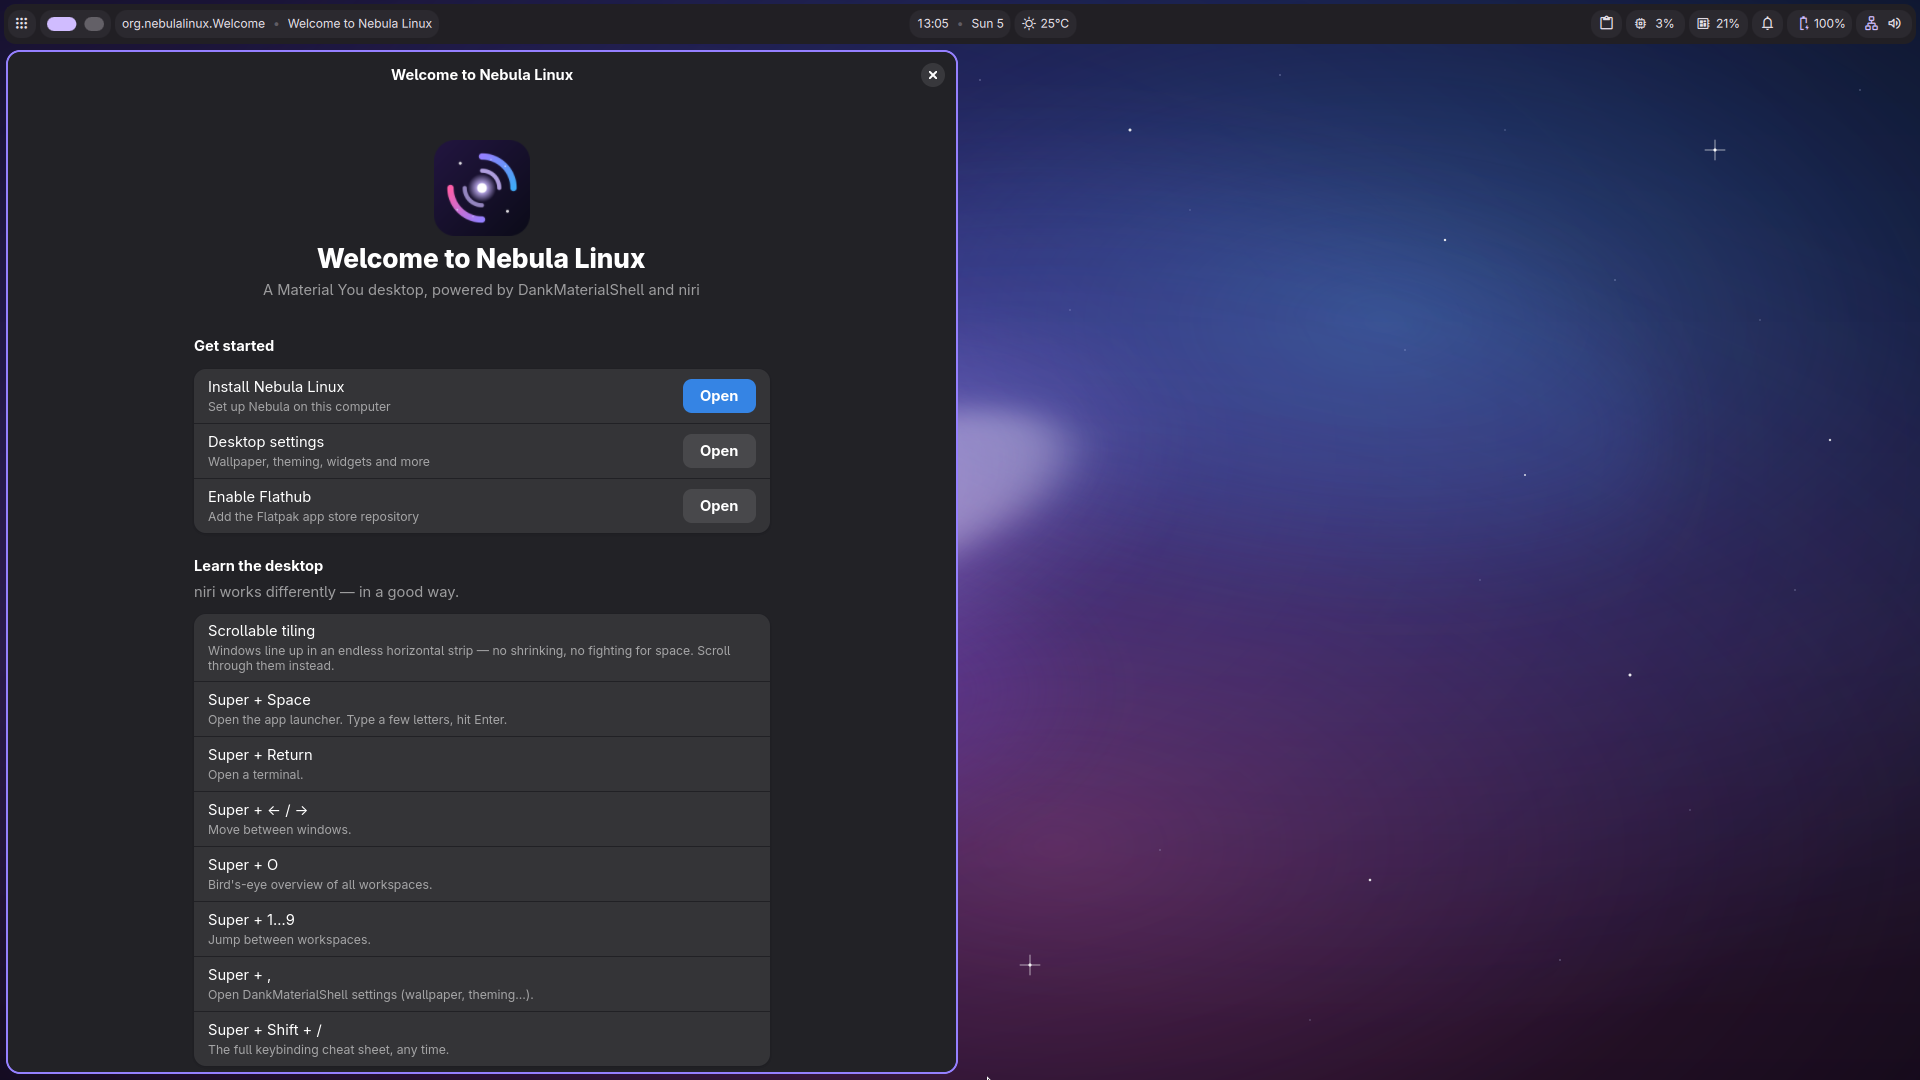
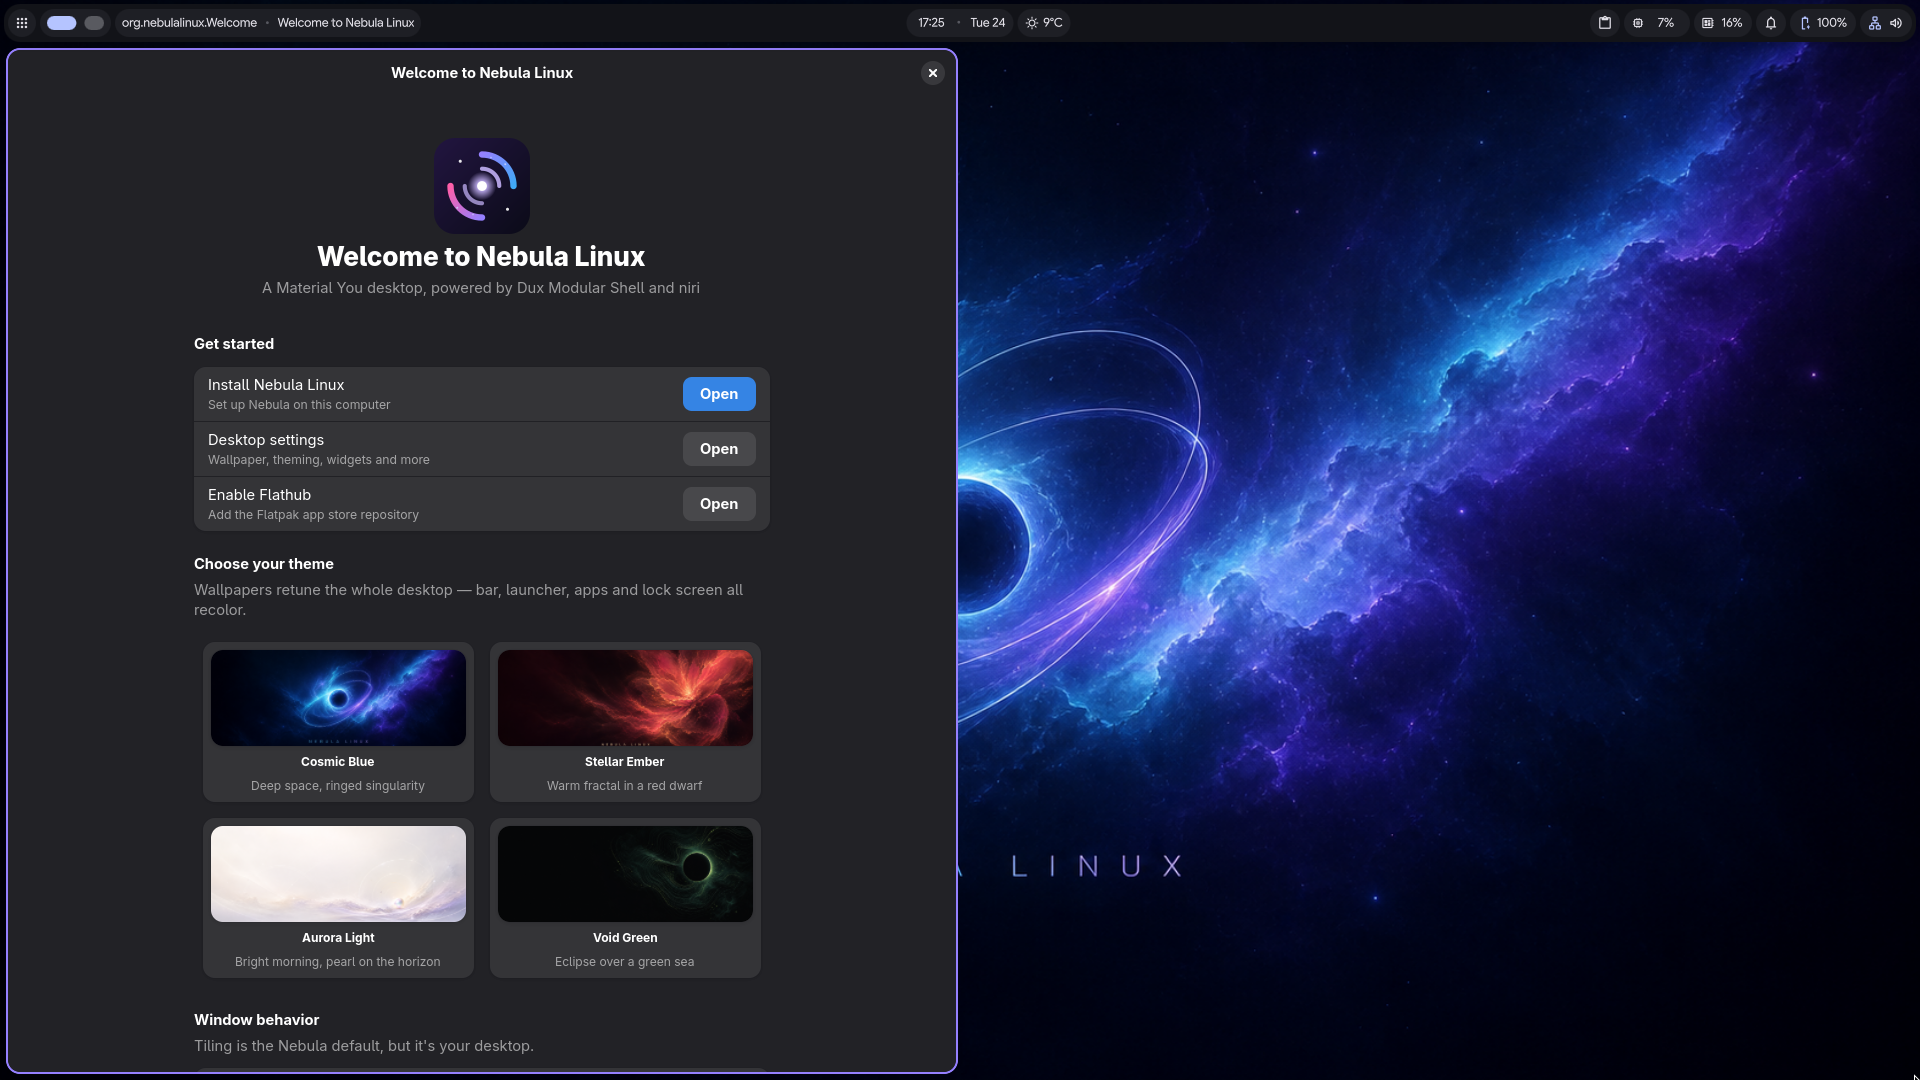
Refresh screenshots from the Beta 1.1 ISO
Recapture the desktop, Welcome app, installer, Dux Modular Shell
settings, tiled apps, fastfetch and the four wallpaper themes from the
2026.11.24 live ISO at 1920x1080, replacing the DankMaterialShell 1.5
shots on the README and website. The BIOS boot menu is unchanged and
keeps its existing image. settings-about.png becomes settings.png
since it now shows Wallpaper & colors.

diff --git a/docs/index.html b/docs/index.html
@@ -65,7 +65,7 @@
             </div>
         </div>
         <div class="hero-image fade-in-up delay-3">
-            <img src="assets/arch-fastfetch.png" alt="Nebula Linux — fastfetch showing the Arch base on the niri compositor" class="glass-img">
+            <img src="assets/arch-fastfetch.png" alt="Nebula Linux Beta 1.1 — fastfetch on the niri compositor" class="glass-img">
         </div>
     </header>
 
@@ -96,10 +96,10 @@
             </div>
         </div>
         <div class="gallery-grid" style="margin-top: 2rem;">
-            <img src="assets/theme-cosmic-blue.png" alt="Nebula Linux desktop themed with Cosmic Blue wallpaper — deep blue Material colors throughout the bar and UI" class="gallery-img">
-            <img src="assets/theme-stellar-ember.png" alt="Nebula Linux desktop themed with Stellar Ember wallpaper — warm red/pink Material colors, app launcher open" class="gallery-img">
+            <img src="assets/theme-cosmic-blue.png" alt="Nebula Linux desktop themed with Cosmic Blue wallpaper — deep blue Material colors in the bar and dashboard" class="gallery-img">
+            <img src="assets/theme-stellar-ember.png" alt="Nebula Linux desktop themed with Stellar Ember wallpaper — warm red/pink Material colors, dashboard open" class="gallery-img">
             <img src="assets/theme-aurora-light.png" alt="Nebula Linux desktop themed with Aurora Light wallpaper — light Material color scheme" class="gallery-img">
-            <img src="assets/theme-void-green.png" alt="Nebula Linux desktop themed with Void Green wallpaper — green Material colors, app launcher open" class="gallery-img">
+            <img src="assets/theme-void-green.png" alt="Nebula Linux desktop themed with Void Green wallpaper — green Material colors, dashboard open" class="gallery-img">
         </div>
         <p style="text-align:center; max-width: 720px; margin: 2rem auto 0; color: var(--text-secondary);">
             ⚠ <strong>Already running Beta 1.0?</strong> Updating replaces the login screen and
@@ -190,7 +190,7 @@
             <img src="assets/arch-desktop.png" alt="Nebula Arch desktop with Dux Modular Shell" class="gallery-img">
             <img src="assets/arch-welcome.png" alt="Nebula Welcome onboarding app" class="gallery-img">
             <img src="assets/arch-installer.png" alt="Branded Calamares installer" class="gallery-img">
-            <img src="assets/arch-settings.png" alt="Dux Modular Shell settings" class="gallery-img">
+            <img src="assets/arch-settings.png" alt="Dux Modular Shell settings — Wallpaper &amp; colors" class="gallery-img">
             <img src="assets/arch-desktop-1.png" alt="Apps on the scrollable-tiling desktop" class="gallery-img">
             <img src="assets/arch-boot.png" alt="Nebula boot menu" class="gallery-img">
         </div>

diff --git a/README.md b/README.md
@@ -50,16 +50,16 @@ in a VM (4+ GB RAM). Or [build it yourself](#building-the-iso).
 
 ## Screenshots
 
-![Nebula Linux — fastfetch showing the Arch base on the niri compositor](screenshots/Homescreen.png)
+![Nebula Linux Beta 1.1 — fastfetch on the niri compositor](screenshots/Homescreen.png)
 
 | | |
 |---|---|
 | ![Desktop](screenshots/desktop.png) | ![Welcome app](screenshots/welcome.png) |
-| The live desktop — DMS bar on niri | Nebula Welcome onboarding |
-| ![Installer](screenshots/installer.png) | ![DMS settings](screenshots/settings-about.png) |
-| Branded Calamares installer | DankMaterialShell settings |
+| The live desktop — Cosmic Blue theme, DMS bar on niri | Nebula Welcome onboarding |
+| ![Installer](screenshots/installer.png) | ![DMS settings](screenshots/settings.png) |
+| Branded Calamares installer | Dux Modular Shell settings |
 | ![Desktop apps](screenshots/desktop-1.png) | ![Boot menu](screenshots/bootloader.png) |
-| Apps on the scrollable-tiling desktop | Boot menu with nebula background |
+| Apps tiled on the scrollable-tiling desktop | Boot menu with nebula background |
 
 ## What you get
 
